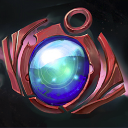
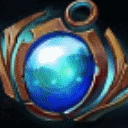
added 4 more states to the free ability mutator

diff --git a/src/content/panorama/scripts/custom_game/game_setup/game_setup_options.js b/src/content/panorama/scripts/custom_game/game_setup/game_setup_options.js
@@ -359,6 +359,10 @@ var basicOptions = {
                             'lodMutatorFury': 6,
                             'lodMutatorBashwars': 7,
                             'lodMutatorWitch': 8,
+                            'lodMutatorTakeaim': 9,
+                            'lodMutatorAether': 10,
+                            'lodMutatorGreed': 11,
+                            'lodMutatorNether': 12,
                         }
                     },
                     //{
@@ -1301,6 +1305,22 @@ var advancedOptions = {
                     {
                         text: 'DOTA_Tooltip_ability_death_prophet_witchcraft',
                         value: 8
+                    },
+                    {
+                        text: 'DOTA_Tooltip_ability_sniper_take_aim',
+                        value: 9
+                    },
+                    {
+                        text: 'DOTA_Tooltip_ability_aether_range_lod',
+                        value: 10
+                    },
+                    {
+                        text: 'DOTA_Tooltip_ability_alchemist_goblins_greed',
+                        value: 11
+                    },
+                    {
+                        text: 'DOTA_Tooltip_ability_angel_arena_nether_ritual',
+                        value: 12
                     }
                 ]
             },

diff --git a/CHANGELOG.md b/CHANGELOG.md
@@ -6,7 +6,7 @@ All notable changes to this project will be documented in this file.
 ### Bug Fixing/New Features
 - Fixed creep power always activating when pressing load"
 - Hopefully fixed flesh heaps
-- Added 3 new settings on the free ability mutator
+- Added 7 new settings on the free ability mutator
 
 ### Balance
 - Bots will revert to their usual pushing behaviour if a tower is destroyed
